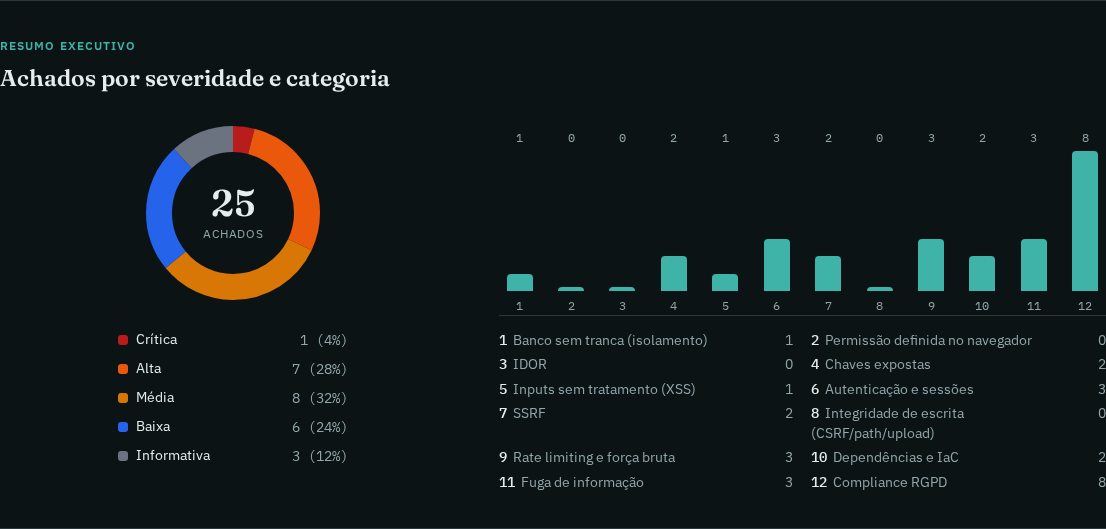
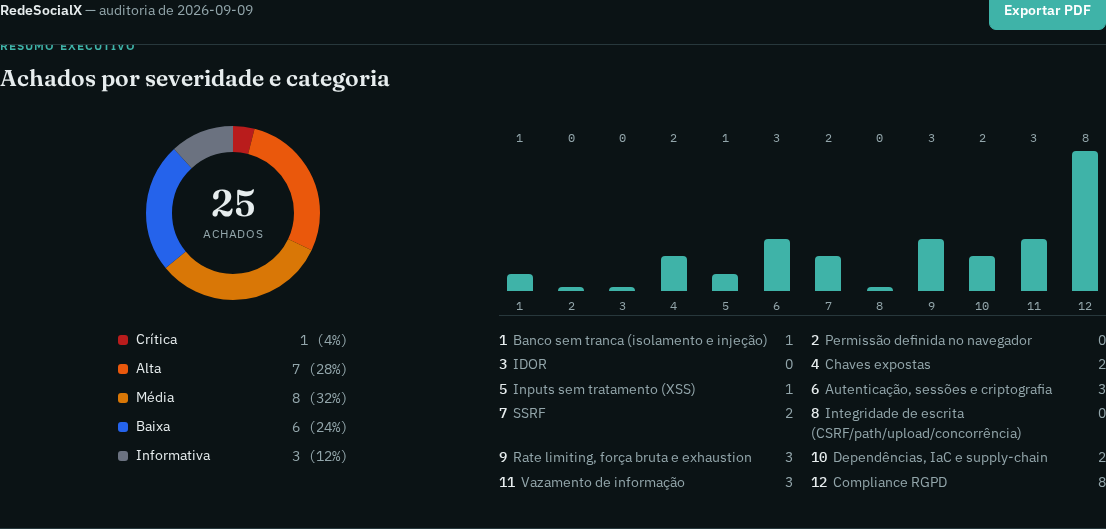
docs: update README for expanded categories, checklist persistence, CI gate, and compare-runs
- Category list now names the 4 expanded sub-scopes (injection,
  crypto misuse, race conditions/business logic, resource exhaustion,
  supply-chain).
- Document checklist checkbox localStorage persistence and the new
  "Comparar auditorias" feature.
- Add a "Gate para CI" section documenting validate-findings.mjs's
  --fail-on flag.
- Regenerate screenshots (categories renamed since they were first
  taken) and add one for the compare-runs view.

diff --git a/README.md b/README.md
@@ -13,9 +13,11 @@ pelo GitHub Pages. Simples de propósito.
 1. Corres `/security-audit` (ou `/security-audit <caminho>`) num
    projeto qualquer — pode ser React, PHP, o que for.
 2. O skill detecta a stack desse projeto, audita-o linha a linha contra
-   **12 categorias fixas** (isolamento multi-tenant, permissões só no frontend, IDOR, chaves expostas, XSS, auth/sessões, SSRF,
-   CSRF/path/upload, rate limiting, dependências/IaC, fuga de
-   informação, e compliance RGPD).
+   **12 categorias fixas**: isolamento multi-tenant e SQL/NoSQL injection,
+   permissões só no frontend, IDOR, chaves expostas, XSS, auth/sessões e
+   uso indevido de criptografia, SSRF, CSRF/path/upload e race
+   conditions/lógica de negócio, rate limiting e exhaustion de recursos,
+   dependências/IaC e supply-chain, fuga de informação, e compliance RGPD.
 3. Gera um `findings.json` com tudo o que encontrou — achados, pontos fortes, painel RGPD, cobertura por categoria — e valida esse ficheiro com um script (`validate-findings.mjs`) antes de aceitar nada.
 4. Escreve esse JSON aqui, dentro de
    `docs/security-audit/studio/data/<projeto>/<data>.json`, atualiza o índice (`data/index.json`) e faz commit + push.
@@ -51,6 +53,10 @@ Lista de Validação imprimível, para a reunião com o cliente:
 
 ![Lista de Validação](screenshots/05-checklist.png)
 
+Comparar duas auditorias do mesmo projeto — corrigidos, novos, ainda presentes:
+
+![Comparar auditorias](screenshots/06-comparar-auditorias.png)
+
 ## Onde está cada coisa
 
 ```
@@ -84,7 +90,30 @@ publicado, não a ferramenta que o produz.
   recomendações, e um gerador de issues para colar direto no GitHub.
 - Uma **Lista de Validação** imprimível — uma tabela pensada para
   levares numa reunião com o cliente e ires marcando achado a achado à
-  mão.
+  mão. A caixa "confirmado" fica guardada no browser (localStorage) —
+  se reabrires o mesmo projeto/auditoria nesse browser, o que já
+  marcaste continua marcado. Notas e Responsável/Prazo continuam só
+  para imprimir e preencher à mão.
+- **Comparar auditorias**: quando um projeto tem 2+ auditorias
+  publicadas, aparece um botão na sidebar para escolheres duas datas e
+  ver corrigidos / novos / ainda presentes entre elas — útil para
+  confirmar que uma correção realmente aconteceu, ou apanhar
+  regressões.
+
+## Gate para CI
+
+O `validate-findings.mjs` do skill (o que corre no passo 6 do processo
+de auditoria) aceita um `--fail-on=<severidade>`:
+
+```bash
+node ~/.claude/skills/security-audit/scripts/validate-findings.mjs findings.json --fail-on=alta
+```
+
+Falha (exit 1) se existir algum achado nessa severidade ou acima
+(`critica`, `alta`, `media`, `baixa`, `informativa` — critica é a mais
+grave). Sem a flag, o comportamento é o mesmo de sempre: só valida a
+forma do JSON. Isto corre no CI do projeto *auditado*, não deste repo
+— o AI-ditoria em si não tem pipeline própria.
 
 ## Como correr os testes
 
